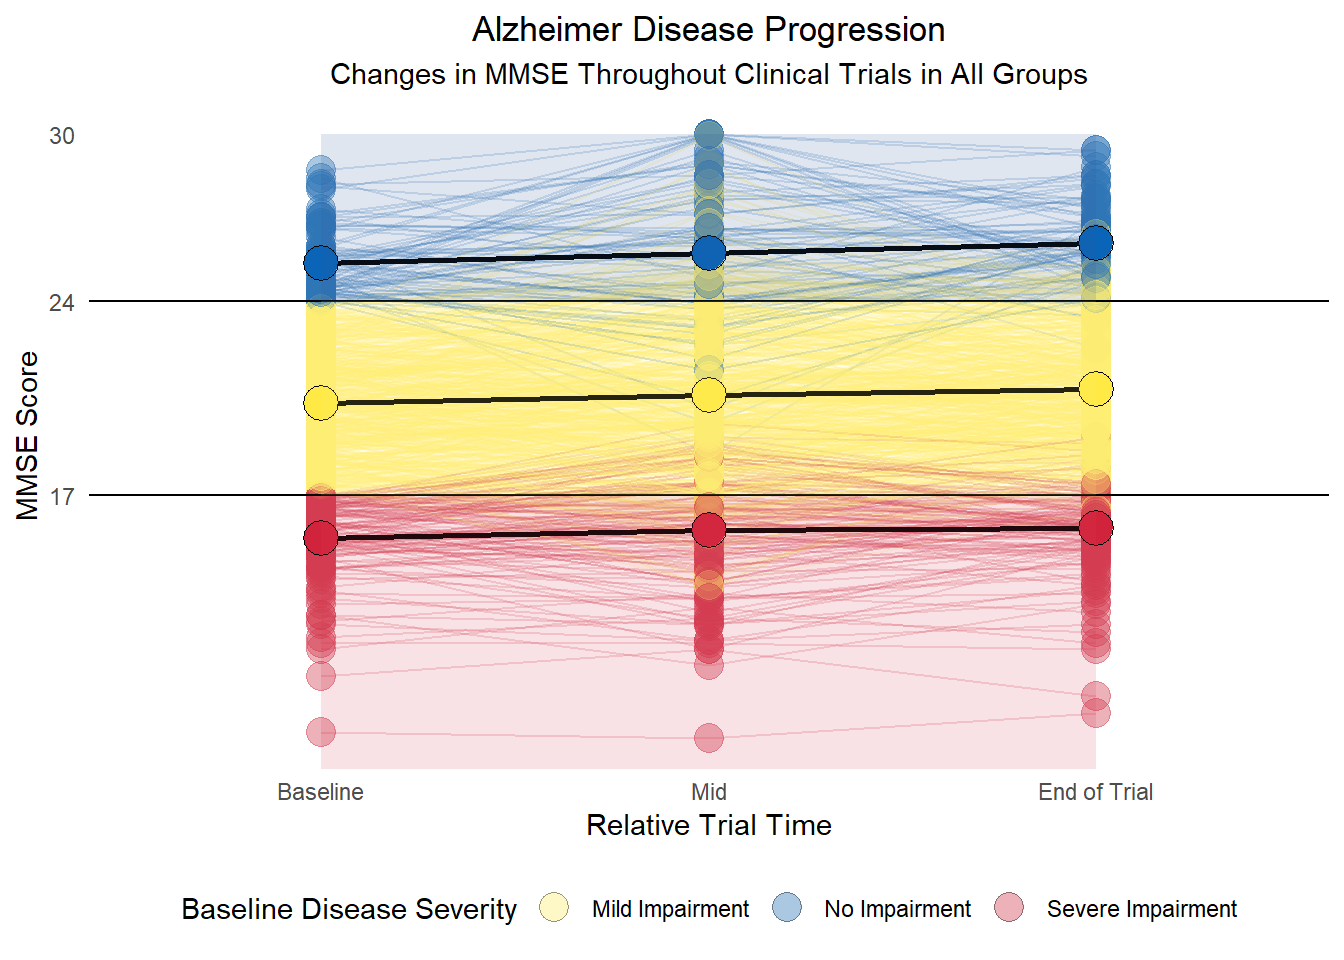
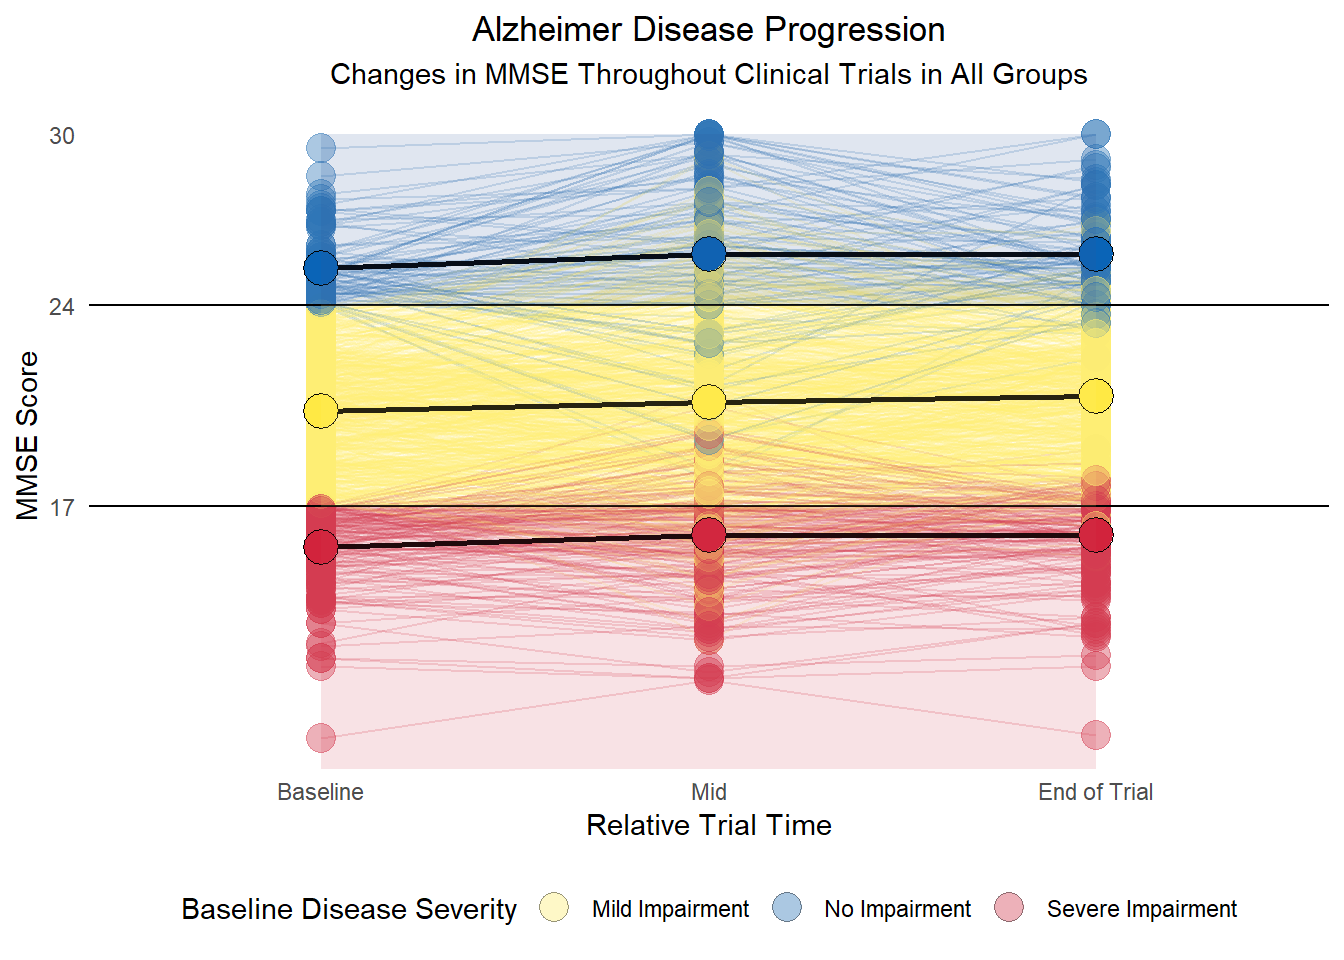
8-8 Changes2
Build Site

diff --git a/content/post/2019-08-07-parallel-plots-for-visualizing-inconsistent-temporality-of-clinical-trials.html b/content/post/2019-08-07-parallel-plots-for-visualizing-inconsistent-temporality-of-clinical-trials.html
@@ -125,12 +125,12 @@ SimulatedData &lt;- simulateData(
 <pre><code>## # A tibble: 6 x 4
 ##   TrialId GroupId Time         OutcomeScore
 ##     &lt;int&gt;   &lt;int&gt; &lt;fct&gt;               &lt;dbl&gt;
-## 1       1       1 Baseline             20.7
-## 2       1       1 Mid                  18.3
-## 3       1       1 End of Trial         20.8
-## 4       1       2 Baseline             22.4
-## 5       1       2 Mid                  18.9
-## 6       1       2 End of Trial         20.8</code></pre>
+## 1       1       1 Baseline             25.2
+## 2       1       1 Mid                  27  
+## 3       1       1 End of Trial         25.9
+## 4       1       2 Baseline             18.1
+## 5       1       2 Mid                  15.8
+## 6       1       2 End of Trial         16.5</code></pre>
 </div>
 <div id="plotting-the-simulated-data" class="section level2">
 <h2>Plotting the Simulated Data</h2>

diff --git a/content/travisspear_cv.html b/content/travisspear_cv.html
@@ -5,7 +5,7 @@ address: ""
 phone: 303 263 4842
 email: "travisspear@gmail.com"
 linkedin: travis-spear
-date: "May 2019"
+date: "August 2019"
 footer: "test footer"
 output: vitae::awesomecv
 ---
